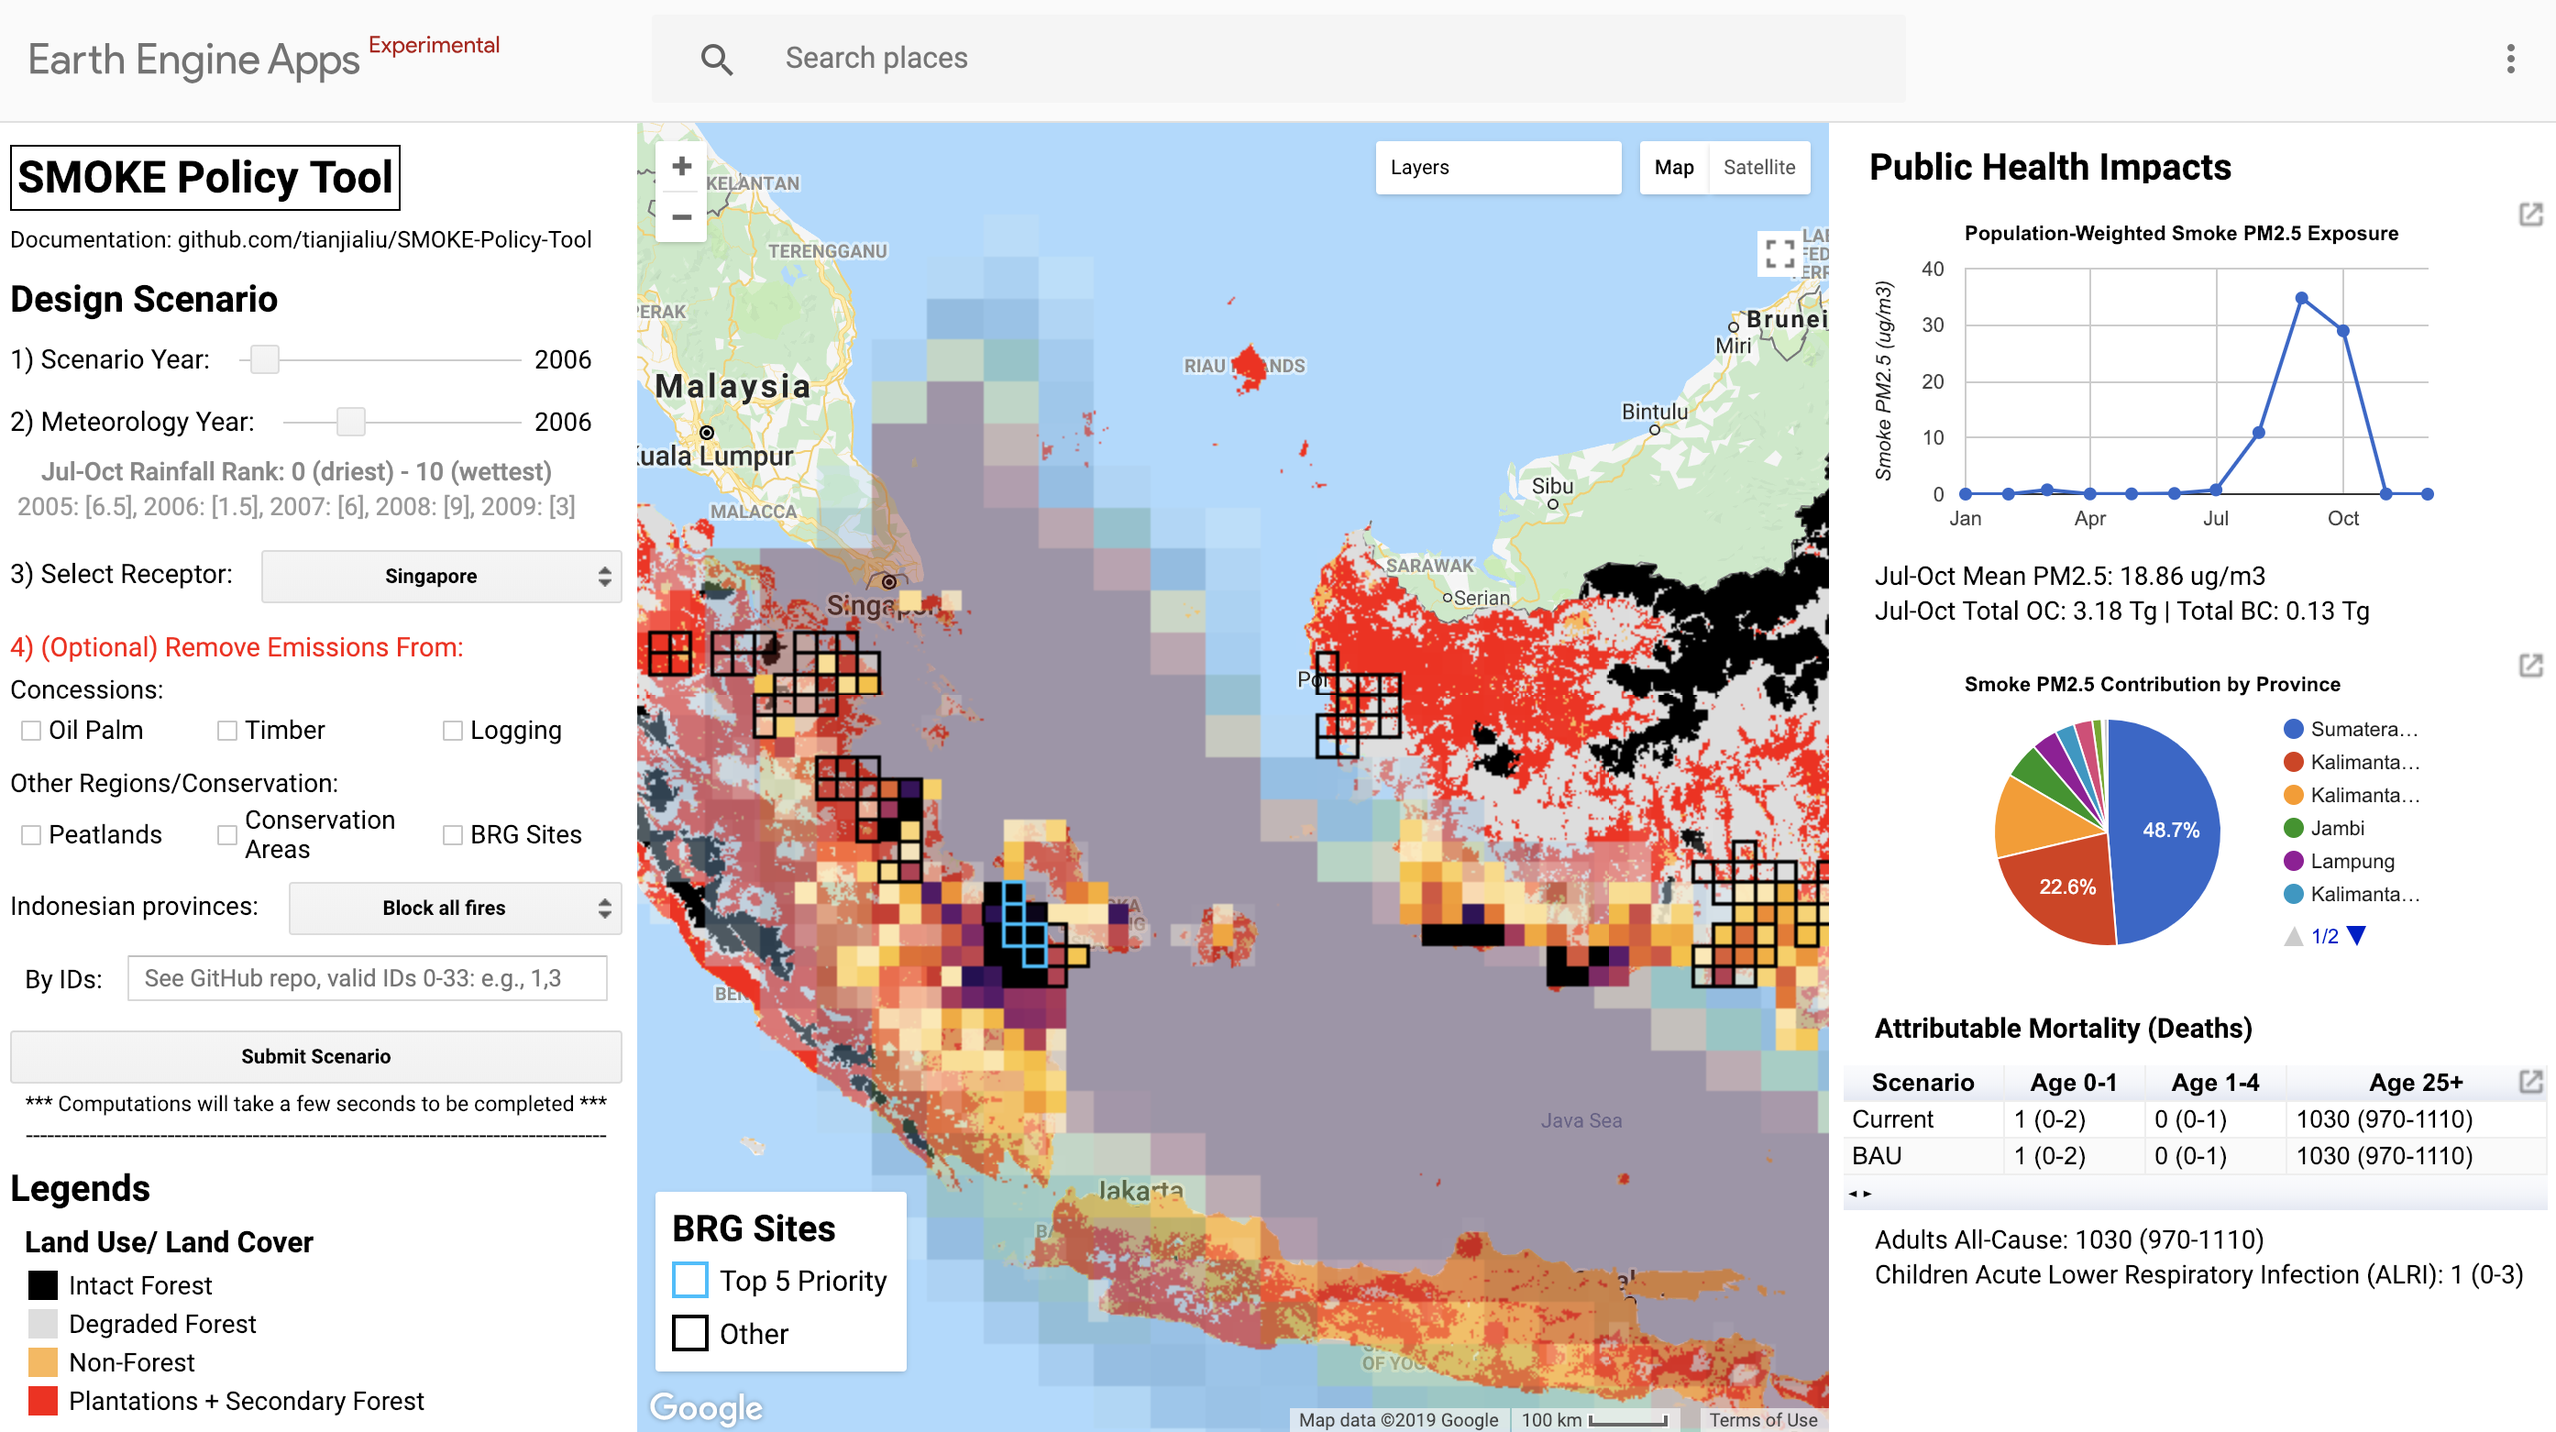
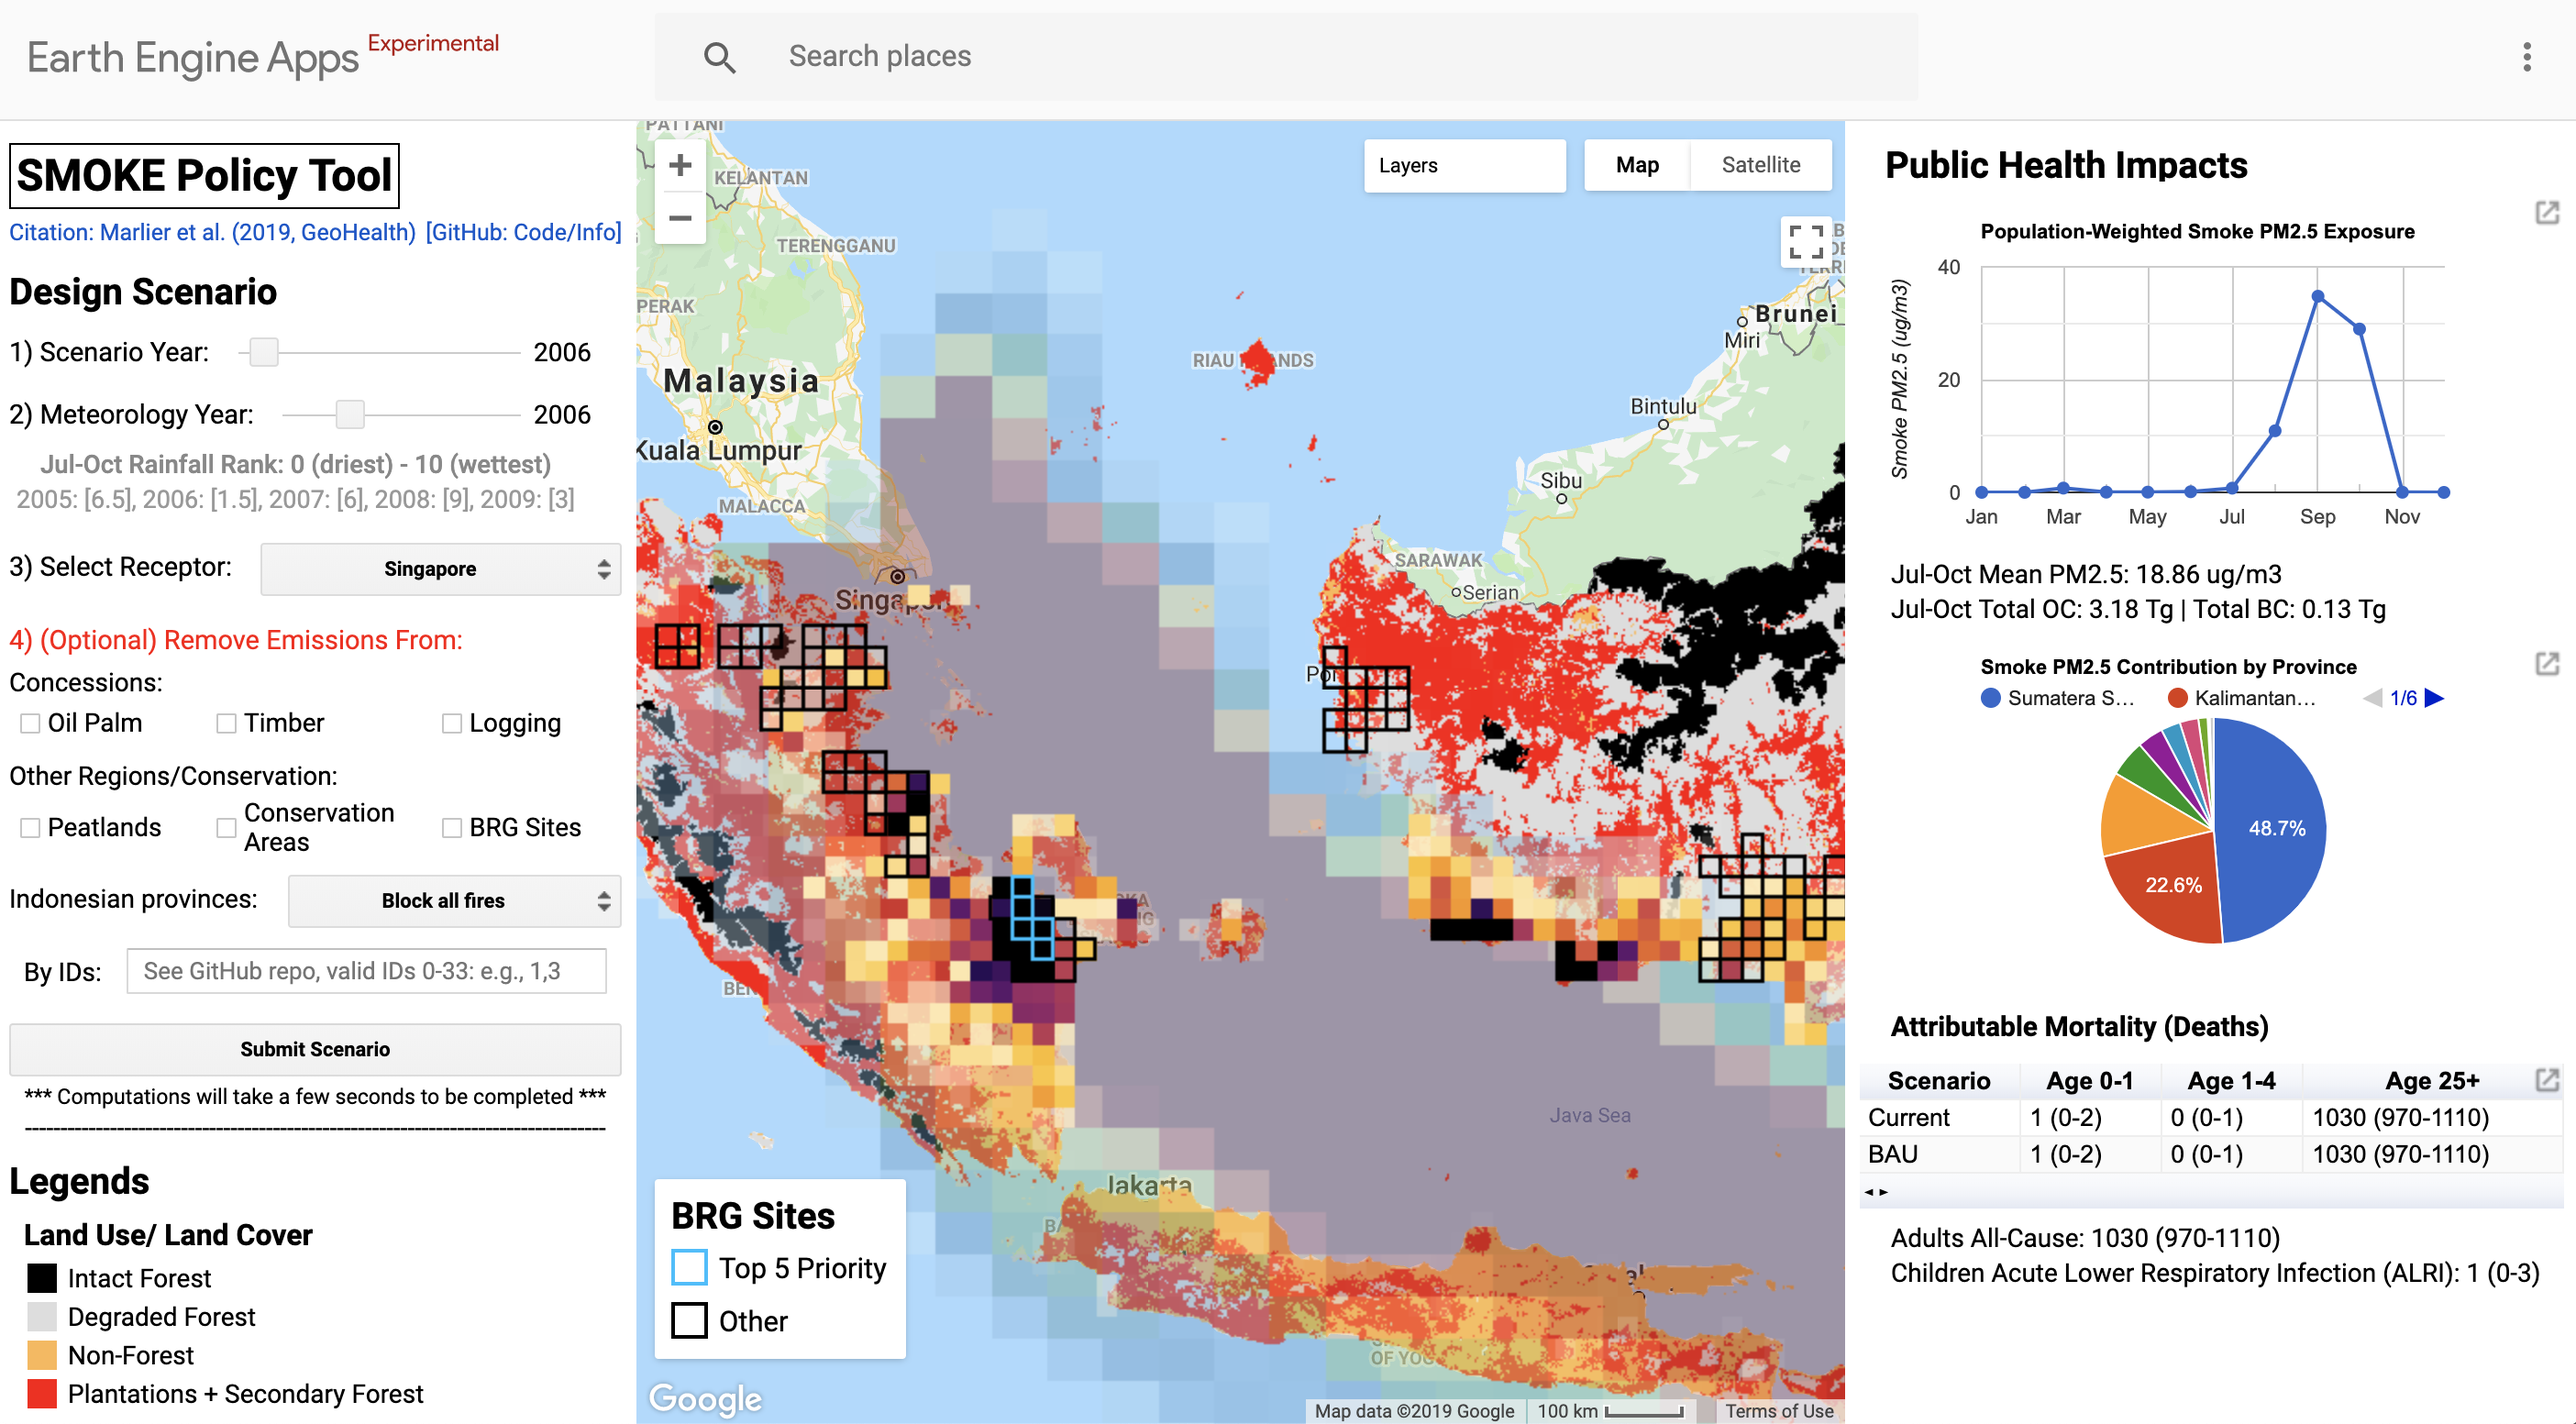
update publication info in apps, readme

diff --git a/apps/SMOKEPolicyTool.js b/apps/SMOKEPolicyTool.js
@@ -6,12 +6,16 @@
 
 // Documentation: https://github.com/tianjialiu/SMOKE-Policy-Tool
 // Author: Tianjia Liu
-// Last updated: February 11, 2019
+// Last updated: July 24, 2019
 
 // Purpose: model and project the impact of Indonesian fires
 // on public health in Equatorial Asia for 2005-2029 based on
 // land use/ land cover (LULC) classification, GFEDv4s fire emissions,
 // and meteorology
+
+// Citation: Marlier et al. (2019) Fires, Smoke Exposure, and Public Health:
+// An Integrative Framework to Maximize Health Benefits from Peatland Restoration.
+// GeoHealth, 3. https://doi.org/10.1029/2019GH000191
 
 // -----------
 //  - Code - |
@@ -442,7 +446,7 @@ var getPMchart = function(PMts,PMavg,OCtot,BCtot,plotPanel) {
       title: 'Population-Weighted Smoke PM2.5 Exposure',
       hAxis: {'format':'MMM'},
       vAxis: {title: 'Smoke PM2.5 (ug/m3)'},
-      legend: 'none',
+      legend: {position: 'none'},
       lineWidth: 2,
       pointSize: 5,
     });
@@ -717,9 +721,11 @@ var getMortalityChart = function(PMts, PMts_BAU, receptor, plotPanel) {
 // ------------
 var yearPanel = function() {
   var policyToolLabel = ui.Label('SMOKE Policy Tool', {margin: '12px 0px 0px 8px', fontWeight: 'bold', fontSize: '24px', border: '1px solid black', padding: '3px 3px 3px 3px'});
-  var githubRepoLabel = ui.Label('Documentation: github.com/tianjialiu/SMOKE-Policy-Tool', {margin: '8px 8px 5px 8px', fontSize: '12.5px'}, 'https://github.com/tianjialiu/SMOKE-Policy-Tool');
-  var inputYearSectionLabel = ui.Label('Design Scenario', {margin: '8px 8px 5px 8px', fontWeight: 'bold', fontSize: '20px'});
   
+  var paperLabel = ui.Label('Citation: Marlier et al. (2019, GeoHealth)', {margin: '5px 0px 5px 8px', fontSize: '12.5px'}, 'https://doi.org/10.1029/2019GH000191');
+  var githubRepoLabel = ui.Label('[GitHub: Code/Info]', {margin: '5px 0px 5px 5px', fontSize: '12.5px'}, 'github.com/tianjialiu/SMOKE-Policy-Tool');
+
+  var inputYearSectionLabel = ui.Label('Design Scenario', {margin: '8px 8px 5px 8px', fontWeight: 'bold', fontSize: '20px'});
   var inputYearLabel = ui.Label('1) Scenario Year:', {fontSize: '14.5px'});
   var inputYearSlider = ui.Slider({min: 2005, max: 2029, value: 2006, step: 1});
   inputYearSlider.style().set('stretch', 'horizontal');
@@ -734,8 +740,8 @@ var yearPanel = function() {
     {margin: '3px 0px 8px 12px', color: '#999', fontSize: '13.5px'});
     
   return ui.Panel([
-      policyToolLabel, githubRepoLabel, inputYearSectionLabel,
-      ui.Panel([inputYearLabel, inputYearSlider], ui.Panel.Layout.Flow('horizontal'), {stretch: 'horizontal'}),
+      policyToolLabel, ui.Panel([paperLabel, githubRepoLabel], ui.Panel.Layout.Flow('horizontal'), {stretch: 'horizontal'}),
+      inputYearSectionLabel, ui.Panel([inputYearLabel, inputYearSlider], ui.Panel.Layout.Flow('horizontal'), {stretch: 'horizontal'}),
       ui.Panel([metYearLabel, metYearSlider], ui.Panel.Layout.Flow('horizontal'), {stretch: 'horizontal'}),
       metYearDescription, metYearRanking
     ]);

diff --git a/gee_public/Modules/plotParams.js b/gee_public/Modules/plotParams.js
@@ -11,9 +11,11 @@ var smokeHealth = require('users/smokepolicytool/public:Modules/smokeHealth.js')
 // ------------
 exports.yearPanel = function() {
   var policyToolLabel = ui.Label('SMOKE Policy Tool', {margin: '12px 0px 0px 8px', fontWeight: 'bold', fontSize: '24px', border: '1px solid black', padding: '3px 3px 3px 3px'});
-  var githubRepoLabel = ui.Label('Documentation: github.com/tianjialiu/SMOKE-Policy-Tool', {margin: '8px 8px 5px 8px', fontSize: '12.5px'}, 'https://github.com/tianjialiu/SMOKE-Policy-Tool');
+
+  var paperLabel = ui.Label('Citation: Marlier et al. (2019, GeoHealth)', {margin: '5px 0px 5px 8px', fontSize: '12.5px'}, 'https://doi.org/10.1029/2019GH000191');
+  var githubRepoLabel = ui.Label('[GitHub: Code/Info]', {margin: '5px 0px 5px 5px', fontSize: '12.5px'}, 'github.com/tianjialiu/SMOKE-Policy-Tool');
+
   var inputYearSectionLabel = ui.Label('Design Scenario', {margin: '8px 8px 5px 8px', fontWeight: 'bold', fontSize: '20px'});
-  
   var inputYearLabel = ui.Label('1) Scenario Year:', {fontSize: '14.5px'});
   var inputYearSlider = ui.Slider({min: 2005, max: 2029, value: 2006, step: 1});
   inputYearSlider.style().set('stretch', 'horizontal');
@@ -28,8 +30,8 @@ exports.yearPanel = function() {
     {margin: '3px 0px 8px 12px', color: '#999', fontSize: '13.5px'});
   
   return ui.Panel([
-      policyToolLabel, githubRepoLabel, inputYearSectionLabel,
-      ui.Panel([inputYearLabel, inputYearSlider], ui.Panel.Layout.Flow('horizontal'), {stretch: 'horizontal'}),
+      policyToolLabel, ui.Panel([paperLabel, githubRepoLabel], ui.Panel.Layout.Flow('horizontal'), {stretch: 'horizontal'}),
+      inputYearSectionLabel, ui.Panel([inputYearLabel, inputYearSlider], ui.Panel.Layout.Flow('horizontal'), {stretch: 'horizontal'}),
       ui.Panel([metYearLabel, metYearSlider], ui.Panel.Layout.Flow('horizontal'), {stretch: 'horizontal'}),
       metYearDescription, metYearRanking
     ]);

diff --git a/gee_public/UI_SMOKEPolicyTool.js b/gee_public/UI_SMOKEPolicyTool.js
@@ -6,12 +6,16 @@
 /*
 // Documentation: https://github.com/tianjialiu/SMOKE-Policy-Tool
 // Author: Tianjia Liu
-// Last updated: February 11, 2019
+// Last updated: July 24, 2019
 
 // Purpose: model and project the impact of Indonesian fires
 // on public health in Equatorial Asia for 2005-2029 based on
 // land use/ land cover (LULC) classification, GFEDv4s fire emissions,
 // and meteorology
+
+// Citation: Marlier et al. (2019) Fires, Smoke Exposure, and Public Health:
+// An Integrative Framework to Maximize Health Benefits from Peatland Restoration.
+// Geohealth, 3. https://doi.org/10.1029/2019GH000191
 
 // To start: click 'Run' above the code editor to initialize the
 // user interface
@@ -77,7 +81,7 @@ var smokeHealth = require('users/smokepolicytool/public:Modules/smokeHealth.js')
 // Control panel
 var controlPanel = ui.Panel({
   layout: ui.Panel.Layout.flow('vertical'),
-  style: {width: '340px'}
+  style: {width: '350px'}
 });
 
 // Plot panel

diff --git a/gee_public/Modules/smokePM.js b/gee_public/Modules/smokePM.js
@@ -264,7 +264,7 @@ exports.getPMchart = function(PMts,PMavg,OCtot,BCtot,plotPanel) {
       title: 'Population-Weighted Smoke PM2.5 Exposure',
       hAxis: {'format':'MMM'},
       vAxis: {title: 'Smoke PM2.5 (μg/m³)'},
-      legend: 'none',
+      legend: {position: 'none'},
       lineWidth: 2,
       pointSize: 5,
     });

diff --git a/README.md b/README.md
@@ -97,7 +97,7 @@ Click the 'UI_SMOKEPolicyTool.js' script in the 'users/smokepolicytool/public' r
 ![banner image](https://github.com/tianjialiu/SMOKE-Policy-Tool/blob/master/docs/imgs/SMOKEPolicyTool_GEE.png)
 
 ## Publications
-1. Marlier, M.E., T. Liu, K. Yu, J.J. Buonocore, S.N. Koplitz, R.S. DeFries, L.J. Mickley, D.J. Jacob, J. Schwartz, B.S. Wardhana, and S.S. Myers (in review). Fires, Smoke Exposure, and Public Health: An Integrative Framework to Maximize Health Benefits from Peatland Restoration.
+1. Marlier, M.E., T. Liu, K. Yu, J.J. Buonocore, S.N. Koplitz, R.S. DeFries, L.J. Mickley, D.J. Jacob, J. Schwartz, B.S. Wardhana, and S.S. Myers (2019). Fires, Smoke Exposure, and Public Health: An Integrative Framework to Maximize Health Benefits from Peatland Restoration. *GeoHealth*, 3. https://doi.org/10.1029/2019GH000191
 
 2. Koplitz, S.N., L.J. Mickley, M.E. Marlier, J.J. Buonocore, P.S. Kim, T. Liu, M.P. Sulprizio, R.S. DeFries, D.J. Jacob, J. Schwartz, and S.S. Myers (2016). Public health impacts of the severe haze in Equatorial Asia in September–October 2015: demonstration of a new framework for informing fire management strategies to reduce downwind smoke exposure. *Environ. Res. Lett.* 11(9), 094023. https://doi.org/10.1088/1748-9326/11/9/094023
 
